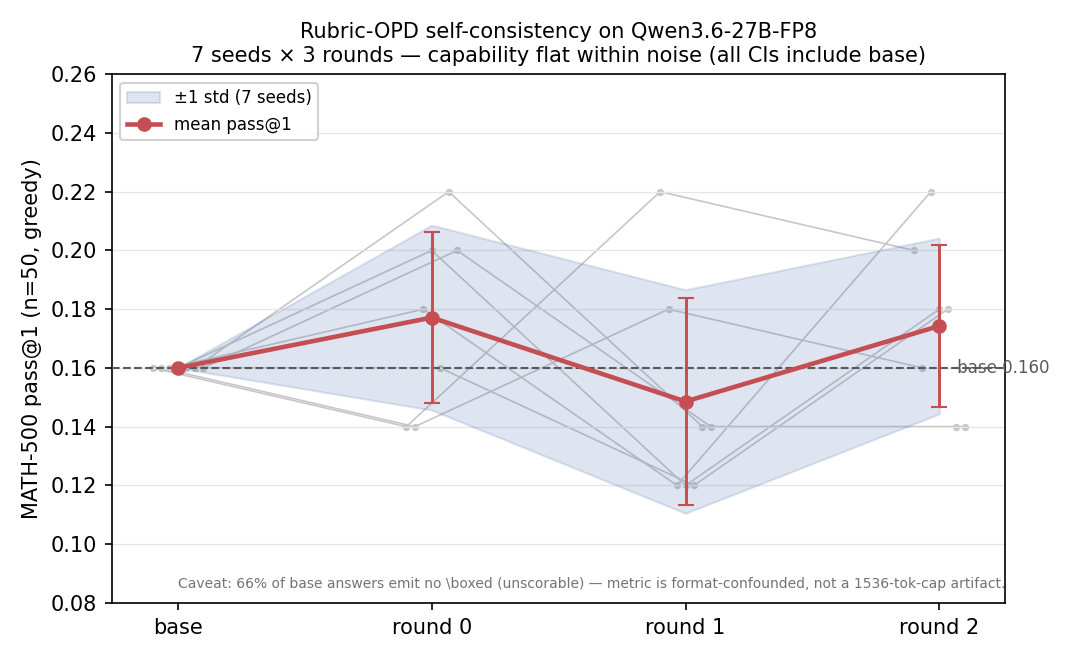
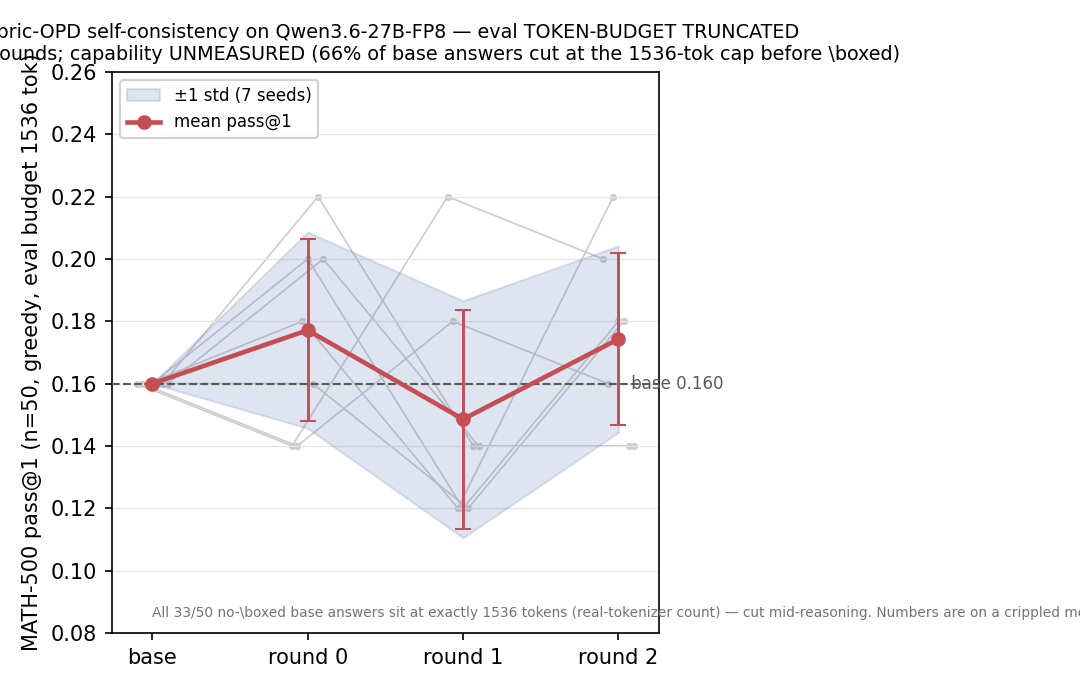
docs(wins,errors): CORRECT root cause — base 16% is 1536-tok-cap truncation, not format-confound
Real-tokenizer count: all 33/50 no-boxed base answers sit at exactly 1536 tokens
(cut mid-reasoning); 14/17 boxed ones also at cap. My prior 'NOT a 1536-cap
artifact' claim (c8167085) used a >5000-char proxy that never fired because LaTeX
is ~2-3 char/token, not 4. Corrected: token-budget truncation (rollout 1024 / eval
1536) on a heavy-CoT 27B masks the real ability. Re-scoring stale dumps can't fix
it (truncated text has no answer); re-eval saved per-round adapters at >=8192 +
retrain at rollout >=4096. New errors entry on the char-proxy mistake.

Docs-only (exempt per bench policy).

diff --git a/docs/experience/wins/2026-06-21-rubric-opd-27b-loop-validated.md b/docs/experience/wins/2026-06-21-rubric-opd-27b-loop-validated.md
@@ -113,31 +113,51 @@ on GPU0–6, 16 train prompts, MATH-500 pass@1 (n=50, greedy), `--rollout-temper
 | 2     | 0.174 | 0.030 | [0.147, 0.202] | **yes** |
 
 Base is identical across all 7 seeds (8/50) — greedy eval is deterministic; the
-seed only perturbs training rollouts. **Every round's 7-seed CI includes base
-0.160; no monotonic trend (round 1 dips below base); the r2 +1.4pp is noise.**
-At 16-prompt / 3-round / n=50, one-model self-consistency rubric-OPD produces **no
-detectable pass@1 lift** on Qwen3.6-27B-FP8.
+seed only perturbs training rollouts. Every round's 7-seed CI includes base
+0.160; no monotonic trend (round 1 dips below base); the r2 +1.4pp is noise.
+**But these numbers are on a token-budget-truncated eval (see §0 below) — the
+capability is unmeasured, not flat.** At 16-prompt / 3-round / n=50 with
+rollout/eval budgets of 1024/1536, one-model self-consistency rubric-OPD shows no
+pass@1 movement — but the dominant variable was truncation, not the method.
 
 ![capability curve](../../assets/opd-rubric-27b-curve.png)
 
-### §0 case-as-fact — decoded the base eval; metric is `\boxed`-format-confounded
+### §0 case-as-fact — decoded the base eval; the metric is TOKEN-BUDGET TRUNCATED
 
-Before calling 16% a ceiling, decoded the actual base generations (seed0; base
-is identical across seeds):
+> **Correction (2026-06-22).** An earlier version of this entry claimed the base
+> 16% was a `\boxed`-format-compliance floor and "NOT a 1536-tok-cap artifact",
+> based on a **char-length proxy** (`>5000 chars = near cap`). That proxy was
+> wrong: 1536 tokens of LaTeX-dense math is only ~3–5k **chars** (LaTeX is
+> token-dense), so the threshold never fired. The **real tokenizer** tells the
+> truth — see below. The aggregate proxy lied; the decoded cases are ground truth.
 
-- **NOT a 1536-token-cap artifact.** Longest base answer is 5093 chars (~1270
-  tokens) — **0/50 reach the 1536-tok cap**; generations finish on their own.
-- **It IS a `\boxed`-compliance floor.** Only **17/50 base answers emit `\boxed`**;
-  the other **33/50 (66%) are unscorable** (no extractable answer → counted wrong).
-  Of the 17 boxed, 8 are correct (47% of *boxed* right). "16%" = 8/50 where 33 of
-  the 50 never entered the scorer — it understates real math ability.
-- **OPD shifts neither.** `\boxed`-emission rate stays 14–20/50 across all rounds
-  (base 17), no round nears the cap. The loop teaches neither format nor pass@1.
+Tokenizing the base generations with the model's own tokenizer
+(`Qwen3.6-27B-FP8/tokenizer.json`):
 
-**Implication:** at this scale the experiment can't cleanly *measure* capability —
-the dominant variable is `\boxed`-format compliance, not math skill. Honest next
-step: a format-robust extractor (or a `\boxed` training/prompt signal) **before**
-re-running for a capability verdict, plus ≫16 train prompts.
+| group | n | token min/median/max | ≥1500 tok (cap=1536) |
+|-------|---|----------------------|----------------------|
+| has `\boxed`   | 17 | 303 / 1536 / 1536 | 14/17 |
+| no `\boxed`    | 33 | **1536 / 1536 / 1536** | **33/33** |
+
+- **It IS a 1536-token-cap truncation artifact.** ALL 33 no-`\boxed` answers are
+  at **exactly 1536 tokens** — cut mid-reasoning, mid-equation ("`= \frac{-6`"…
+  "`We need three`"… "`Carla:`"). They never reach `\boxed` because the budget
+  ends first. Even 14/17 of the *boxed* answers are at the cap.
+- **The training was budget-crippled too.** Rollouts ran at `--max-new-tokens
+  1024` (smaller than eval's 1536); self-consistency majority-vote only saw the
+  few rollouts that happened to finish + box within 1024 — a tiny, biased signal.
+  That is why the loop didn't move pass@1.
+- **Qwen3.6-27B is a heavy-CoT thinker:** it ramble-verifies ("double check /
+  alternative approach / re-read") and overruns any small budget. The capability
+  is **budget-masked, not measured**.
+
+**Implication:** the whole experiment (rollout 1024 / eval 1536) is
+truncation-confounded. The base "16%" is 8/50 where 33 of the 50 were cut off
+before answering — it does **not** reflect the model's real math ability, and the
+flat-within-noise round curve is on a crippled metric. **Re-scoring the existing
+dumps cannot fix this** (truncated text has no final answer to extract). The fix
+is to **re-generate at an adequate budget** (eval ≥8192, rollout ≥4096) ±
+thinking control — i.e. a re-eval (per-round adapters are saved) and a retrain.
 
 ### The day's durable output = infra (all committed, independent of the null)
 
@@ -154,15 +174,23 @@ re-running for a capability verdict, plus ≫16 train prompts.
   SC; halve the `[B,S,V]` logits-grad peak so the 27B CE backward fits.
 
 ### Rule
-A capability curve is only as honest as its eval: **decode the actual generations
-before trusting pass@1.** The base "16%" was 66% unscorable-`\boxed`, not a
-1536-cap truncation and not a math ceiling — the metric measured format compliance.
-Report the format-confound and the flat-within-noise verdict; never dress a +1.4pp
-noise band as a lift. Cross-links: weight-share 2cff1465; day-of-detours
-[errors](../errors/2026-06-21-rubric-opd-debugging.md) (997caa39).
+A capability curve is only as honest as its eval — and **measure tokens with the
+tokenizer, never a char-length proxy.** The base "16%" was 33/50 answers cut at
+exactly 1536 tokens before reaching `\boxed`; the model's real math ability was
+budget-masked, not measured. A char-proxy (`>5000 chars`) for "near the token cap"
+gave the opposite, wrong conclusion (LaTeX is ~2–3 char/token, so 1536 tok ≈ 4k
+chars). Decode the cases **and** count real tokens before shipping a root cause —
+this entry shipped the wrong one once. Cross-links: weight-share 2cff1465;
+day-of-detours [errors](../errors/2026-06-21-rubric-opd-debugging.md) (997caa39);
+the char-proxy mistake [errors](../errors/2026-06-22-token-budget-truncation-char-proxy.md).
 
-### Follow-ups
-- Format-robust extractor (last number / `Answer:` / `=` when `\boxed` absent);
-  re-score all 4 rounds — the capability delta may be masked by the 66% floor.
-- Scale train prompts ≫16 + rounds, with the format-robust eval, before any claim.
+### Follow-ups (the real next run)
+- **Re-eval the saved per-round adapters at eval budget ≥8192** (training-free —
+  `adapters_round{1,2,3}.safetensors` are saved per seed) → a clean base→r2 curve
+  on un-truncated generations. This is the meaningful "re-score."
+- **Retrain with rollout budget ≥4096** (so the self-consistency vote sees
+  finished rollouts) + ≫16 train prompts. The 1024 rollout budget starved the
+  training signal.
+- Investigate thinking control: the 27B overruns even 4096 with verify-rambling;
+  a `/no_think` or concise-answer prompt may be needed to keep eval tractable.
 - DSv4-Flash judge (needs multi-engine-TP) and shared-base needle gate deferred.

diff --git a/docs/experience/errors/2026-06-22-token-budget-truncation-char-proxy.md b/docs/experience/errors/2026-06-22-token-budget-truncation-char-proxy.md
@@ -1,0 +1,52 @@
+# Char-length proxy for "token budget" → shipped a wrong root cause (truncation called format-confound)
+
+## Context
+
+Validating rubric-OPD capability on Qwen3.6-27B-FP8. Base MATH-500 pass@1 was
+0.160 (8/50); 33/50 answers had no `\boxed` and scored as wrong. To decide
+whether 16% was a real ceiling, I checked whether the no-`\boxed` answers were
+**truncated at the 1536-token eval cap**. I measured answer length in **characters**
+(`>5000 chars ≈ near the 1536-tok cap`) and found 0/50 near the cap, max 5093
+chars. I concluded "**NOT a 1536-token-cap artifact**; it's a `\boxed`-format-
+compliance floor" and **committed that into the wins doc + PNG + commit message**
+(0f4f5253).
+
+## Root Cause
+
+The char→token conversion was wrong. I assumed ~4 chars/token (English-prose
+rate). But these answers are **LaTeX-dense math**, which tokenizes at ~2–3
+chars/token (every `\frac`, `{`, `}`, `^`, digit is its own token). So 1536
+tokens of this text is only ~3–5k **chars** — my `>5000 char` threshold for
+"near the cap" never fired, even though the generations were sitting **exactly**
+at the cap.
+
+Counting with the **real tokenizer** (`Qwen3.6-27B-FP8/tokenizer.json`):
+
+| group | n | token min/median/max | ≥1500 tok |
+|-------|---|----------------------|-----------|
+| has `\boxed` | 17 | 303 / 1536 / 1536 | 14/17 |
+| no `\boxed`  | 33 | **1536 / 1536 / 1536** | **33/33** |
+
+**All 33 no-`\boxed` answers are at exactly 1536 tokens** — truncated mid-equation,
+mid-sentence. The decoded tails confirm it ("`= \frac{-6`", "`We need three`",
+"`Carla:`"). It was a token-budget truncation all along. The true root cause:
+Qwen3.6-27B is a heavy-CoT thinker that overruns the 1024 (rollout) / 1536 (eval)
+budgets before emitting `\boxed`. An earlier n=12 analysis had *correctly* called
+this a truncation confound; my char-proxy "corrected" it the wrong way.
+
+## Fix
+
+- Re-measured with the model tokenizer; corrected the wins doc, the PNG footnote,
+  and re-committed with the true root cause (token-budget truncation).
+- Next run: re-eval the saved per-round adapters at eval budget ≥8192 (training-
+  free) for a clean curve; retrain with rollout budget ≥4096 + ≫16 prompts.
+
+## Rule
+
+**To test a token-budget hypothesis, count tokens with the actual tokenizer —
+never a char-length proxy.** chars/token is content-specific (English ~4, LaTeX
+~2–3, code in between); a fixed char threshold silently mis-converts and can flip
+the conclusion. This is the §0 trap: the aggregate (char proxy) **and** a plausible
+mechanism (format non-compliance) both lied; the decoded cases + real token counts
+were the only ground truth. Decode the cases **and** measure in the native unit
+before shipping a root cause — especially before committing it.
